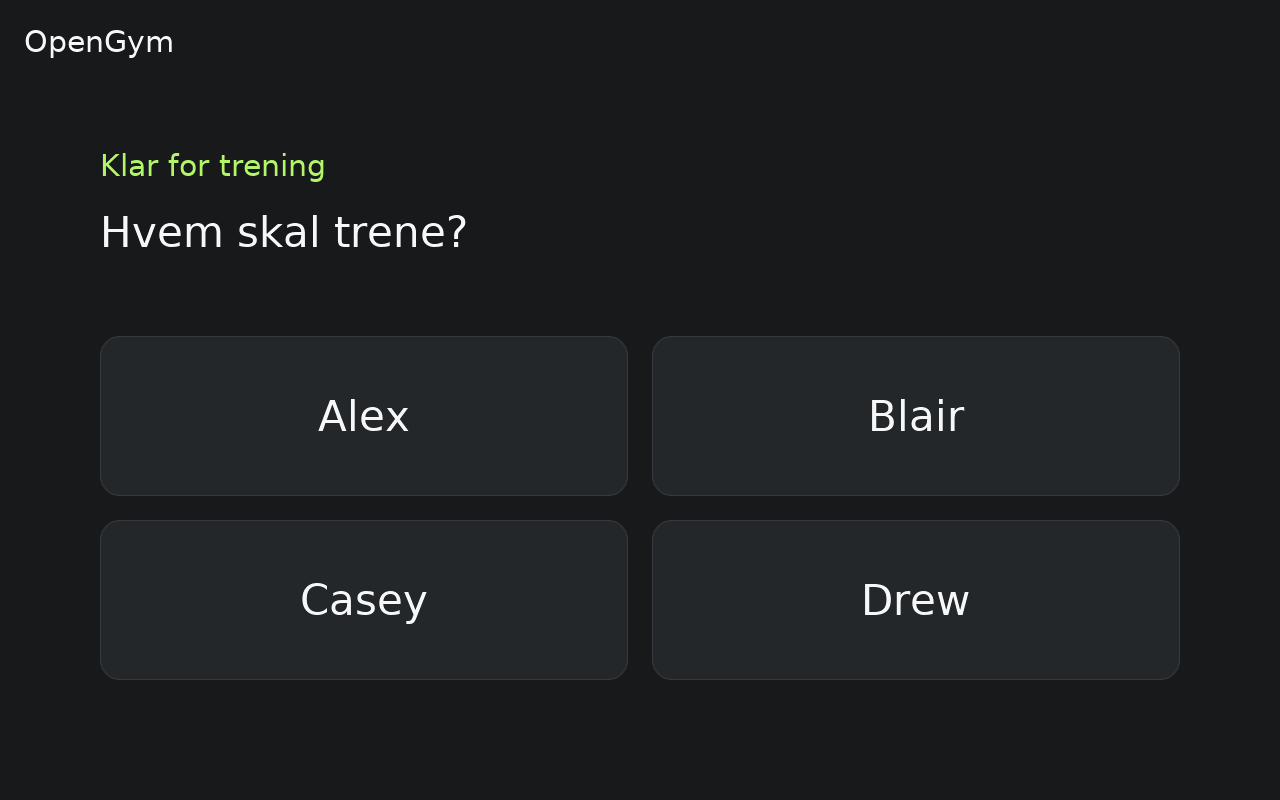
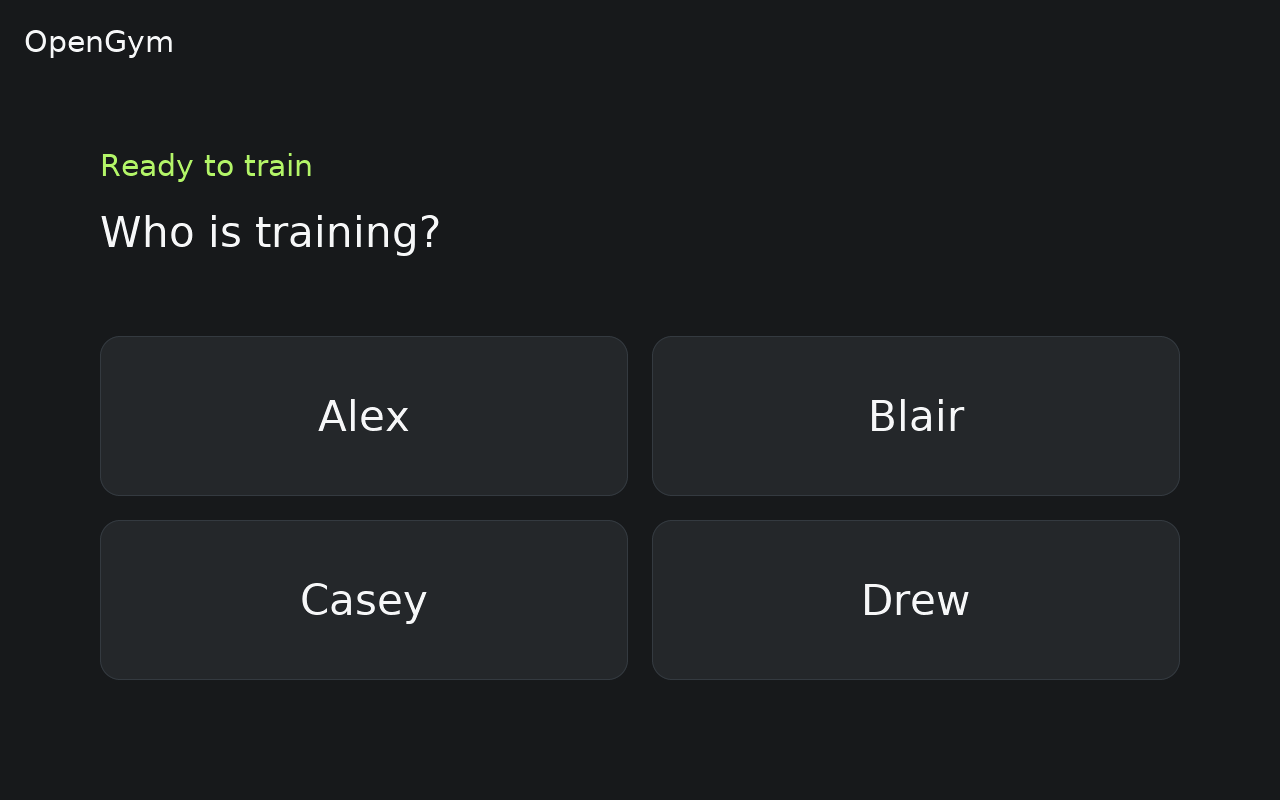
release: default community setup to English and refresh screenshots

Changed region(s): [[0.0625, 0.25, 0.375, 0.3125], [0.0625, 0.1875, 0.25, 0.2188]]

diff --git a/tests/native/test_public_install.py b/tests/native/test_public_install.py
@@ -63,23 +63,23 @@ class PublicInstallTests(unittest.TestCase):
                 setup.prepare(args)
             self.assertEqual(source.read_bytes(), before)
 
-    def test_english_setup_keeps_firmware_and_companion_language_in_step(self):
-        with tempfile.TemporaryDirectory() as directory:
-            args = self.arguments(directory)
-            args.language = 'en'
-            out = setup.prepare(args)
-            compose = json.loads((out / 'compose.yaml').read_text())
-            installation = json.loads((out / 'installation.json').read_text())
-            self.assertEqual(compose['services']['sessions']['environment']['PANEL_LANGUAGE'], 'en')
-            self.assertEqual(installation['locale']['language'], 'en')
-            self.assertEqual(installation['locale']['timezone'], args.timezone)
-            from importlib.util import spec_from_file_location, module_from_spec
-            spec = spec_from_file_location('installation_locale', ROOT / 'tools/configure_installation.py')
-            config = module_from_spec(spec)
-            spec.loader.exec_module(config)
-            wrapper, env = config.render(config.validate(installation))
-            self.assertIn('panel_language: "en"', wrapper)
-            self.assertIn('PANEL_LANGUAGE="en"', env)
+    def test_default_english_and_explicit_norwegian_match_firmware_and_companion(self):
+        for selected, expected in [(None, 'en'), ('nb', 'nb')]:
+            with self.subTest(language=selected), tempfile.TemporaryDirectory() as directory:
+                args = self.arguments(directory)
+                self.assertEqual(args.language, 'en')
+                if selected:
+                    args.language = selected
+                out = setup.prepare(args)
+                compose = json.loads((out / 'compose.yaml').read_text())
+                installation = json.loads((out / 'installation.json').read_text())
+                self.assertEqual(compose['services']['sessions']['environment']['PANEL_LANGUAGE'], expected)
+                self.assertEqual(installation['locale']['language'], expected)
+                self.assertEqual(installation['locale']['timezone'], args.timezone)
+                config = module('installation_locale', 'tools/configure_installation.py')
+                wrapper, env = config.render(config.validate(installation))
+                self.assertIn('panel_language: "' + expected + '"', wrapper)
+                self.assertIn('PANEL_LANGUAGE="' + expected + '"', env)
 
     def test_duplicate_profiles_and_missing_state_fail_before_output(self):
         with tempfile.TemporaryDirectory() as directory:

diff --git a/tools/build_firmware.py b/tools/build_firmware.py
@@ -27,14 +27,14 @@ if __name__ == "__main__":
     parser.add_argument("--synthetic", action="store_true", help="Build isolated, non-installable CI firmware")
     parser.add_argument("--config-only", action="store_true")
     parser.add_argument("--entry", default="firmware/opengym-v3.yaml")
-    parser.add_argument("--language", choices=['nb', 'en'], default='nb',
+    parser.add_argument("--language", choices=['nb', 'en'], default=None,
                         help="Language for the isolated synthetic build; real builds use their installation config")
     args = parser.parse_args()
     version = subprocess.check_output(["esphome", "version"], text=True).strip()
     if version != "Version: 2026.10.0":
         raise SystemExit("Use ESPHome 2026.10.0 from requirements-firmware.txt")
     if not args.synthetic:
-        if args.language != 'nb':
+        if args.language is not None:
             raise SystemExit("Real builds use locale.language in the installation wrapper, not --language")
         entry = (ROOT / args.entry).resolve(strict=True)
         if not entry.is_relative_to(ROOT / "firmware"):
@@ -45,6 +45,8 @@ if __name__ == "__main__":
         raise SystemExit(0)
     if args.entry != "firmware/opengym-v3.yaml":
         raise SystemExit("Synthetic CI uses only the generic supported V3 entry")
+    if args.language is None:
+        args.language = json.loads((ROOT / 'firmware/config/installation.defaults.json').read_text())['substitutions']['panel_language']
     with tempfile.TemporaryDirectory(prefix="opengym-public-compile-") as temporary:
         scratch = Path(temporary)
         shutil.copytree(ROOT / "firmware", scratch / "firmware",

diff --git a/tests/native/test_installation.py b/tests/native/test_installation.py
@@ -20,7 +20,10 @@ class InstallationTests(unittest.TestCase):
 
     def test_installed_compatibility_keeps_all_defaults_and_existing_service_credentials(self):
         c = m.validate(self.compat)
-        self.assertEqual(c['substitutions'], m.DEFAULTS)
+        expected = {**m.DEFAULTS,
+                    'panel_language': self.compat['locale']['language'],
+                    'panel_friendly_name': self.compat['device']['friendly_name']}
+        self.assertEqual(c['substitutions'], expected)
         self.assertEqual(c['network_mode'], 'static')
         text, env = m.render(c)
         self.assertIn('manual_ip:', text)
@@ -48,6 +51,16 @@ class InstallationTests(unittest.TestCase):
         self.assertIn('panel_language: "en"', text)
         self.assertIn('PANEL_LANGUAGE="en"', env)
         self.assertEqual(config['substitutions']['panel_timezone'], m.DEFAULTS['panel_timezone'])
+
+    def test_omitted_locale_uses_edition_default_and_explicit_languages_survive(self):
+        config = m.validate({'schema': 1})
+        self.assertEqual(config['substitutions']['panel_language'], m.DEFAULTS['panel_language'])
+        for language in ['en', 'nb']:
+            with self.subTest(language=language):
+                explicit = m.validate({'schema': 1, 'locale': {'language': language}})
+                wrapper, env = m.render(explicit)
+                self.assertIn('panel_language: "' + language + '"', wrapper)
+                self.assertIn('PANEL_LANGUAGE="' + language + '"', env)
 
     def test_invalid_configuration_rejected_before_output(self):
         mutations = [lambda c:c.update(schema=True), lambda c:c.update(secret='x'),

diff --git a/tools/setup.py b/tools/setup.py
@@ -158,7 +158,8 @@ def parser():
     result.add_argument("--bind-address", required=True)
     result.add_argument("--output", required=True)
     result.add_argument("--timezone", default="Europe/Oslo")
-    result.add_argument("--language", choices=['nb', 'en'], default='nb')
+    result.add_argument("--language", choices=['nb', 'en'], default='en',
+                        help='Interface language (default: en)')
     result.add_argument("--uid", type=int, default=os.getuid() or 1000)
     result.add_argument("--gid", type=int, default=os.getgid() or 1000)
     return result

diff --git a/README.md b/README.md
@@ -7,7 +7,7 @@ picking up your phone.
 Built for the Guition JC8012P4A1 v3, with an ESP32-P4 and a 1280×800 display.
 This is an independent companion project.
 
-**Status:** Early community release (`1.1.33-community.1`). The training workflow
+**Status:** Early community release (`1.1.33-community.2`). The training workflow
 is in use on one panel; the installer and community firmware still need testing
 on other setups.
 
@@ -22,7 +22,7 @@ on other setups.
 
 </details>
 
-*Desktop renders of the native LVGL interface, using example data.
+*English desktop renders of the native LVGL interface, using example data.
 [Image notes](docs/images/RENDER-NOTICE.md).*
 
 ## Features
@@ -46,7 +46,7 @@ placeholder; see [media setup and rights](docs/MEDIA.md) for your own images.
 | OpenGym | Self-hosted **1.4.4** |
 | Companion host | Linux with Docker Engine and Compose |
 | Firmware | ESPHome **2026.10.0**, ESP-IDF **5.5.5** |
-| Interface languages | Norwegian Bokmål (`nb`) and English (`en`) |
+| Interface languages | English (`en`, default) and Norwegian Bokmål (`nb`) |
 
 The panel and companion host need to be on a trusted local network or VPN.
 Other boards and OpenGym versions haven't been verified. See the
@@ -59,14 +59,14 @@ The [installation guide](docs/INSTALL.md) covers the full setup. In brief:
 
 1. Make a private copy of `config/profiles.example.json` for your OpenGym users.
 2. Generate the companion configuration with `tools/setup.py` on your Linux host.
+   English is the default; use `--language nb` for Norwegian.
    Run `python3 tools/setup.py --help` for the available options.
 3. Start the companion services, configure Wi-Fi and
    [build the firmware](docs/BUILDING.md) for your panel.
 4. Pair each profile from the screen using **Settings → Pair the mobile app**
    in the corresponding OpenGym account.
 
-Norwegian is the default. Add `--language en` during setup for English;
-see [language configuration](docs/LANGUAGES.md) for the matching firmware settings.
+See [language configuration](docs/LANGUAGES.md) for matching firmware settings.
 
 ## How it works
 

diff --git a/docs/LANGUAGES.md b/docs/LANGUAGES.md
@@ -1,8 +1,10 @@
 # Interface languages
 
-The native panel supports Norwegian Bokmål (`nb`) and English (`en`). Norwegian
-is the default. The same choice is used for the touchscreen, its local settings
-page and the session companion's generated workout text.
+The native panel supports English (`en`) and Norwegian Bokmål (`nb`). English
+is the default for new community installations; the private edition keeps
+Norwegian. Existing explicit language settings are never migrated automatically.
+The same choice is used for the touchscreen, its local settings page and the
+session companion's generated workout text.
 
 The language is an installation setting, not a touchscreen toggle. Changing it
 requires rebuilding the panel firmware and updating the session companion's
@@ -10,7 +12,7 @@ environment. It does not change OpenGym's own language setting or your units.
 
 ## New installation
 
-In the community checkout, add `--language en` to the `tools/setup.py` command
+In the community checkout, use the `tools/setup.py` command
 in the [installation guide](https://github.com/andresol/opengym-panel/blob/main/docs/INSTALL.md). Setup writes the chosen language to the
 companion's `PANEL_LANGUAGE` environment and to the generated private
 `installation.json`.
@@ -22,8 +24,9 @@ python3 tools/configure_installation.py \
   --config /srv/opengym-panel/installation.json --name my-gym
 ```
 
-Build `firmware/my-gym.local.yaml` using your private provisioning. Use
-`--language nb`, or omit the option, for Norwegian.
+Build `firmware/my-gym.local.yaml` using your private provisioning. Community
+setup selects English when no language option is supplied. Use `--language nb`
+for Norwegian.
 
 ## Existing installation
 

diff --git a/docs/INSTALL.md b/docs/INSTALL.md
@@ -28,7 +28,6 @@ python3 tools/setup.py \
   --api-url http://host.docker.internal:8888 \
   --panel-url http://192.0.2.10:8893 \
   --bind-address 192.0.2.10 \
-  --language nb \
   --output /srv/opengym-panel \
   --uid 1000 --gid 1000
 ```
@@ -36,8 +35,8 @@ python3 tools/setup.py \
 Run this in your source checkout **on the companion host**; generated build
 contexts point to that checkout. It does not send data or start anything.
 It creates mode-0600 service configs, a fresh ESPHome secrets file, a Compose
-file and an `installation.json` with matching language/timezone settings. Choose
-`--language en` for English, or `nb` (the default) for Norwegian Bokmål.
+file and an `installation.json` with matching language/timezone settings.
+English is the default; choose `--language nb` for Norwegian Bokmål.
 The output directory must not already exist. Running as root assigns the
 new files to the selected non-root UID/GID; without root use your own UID/GID.
 Nothing changes ownership or permissions in OpenGym's data directory.
@@ -72,7 +71,7 @@ values are already unique and match the companions. Copy it privately to
 `firmware/secrets.yaml` in your checkout; it is Git-ignored and excluded from the
 Docker build context. The file also holds your browser-admin password.
 
-The base firmware uses DHCP, Europe/Oslo time and Norwegian. Generate a wrapper
+The base firmware uses DHCP, Europe/Oslo time and English. Generate a wrapper
 from setup's private `installation.json` to use the same language and timezone
 as the companion. For additional device/network choices, use a private copy of
 `config/installation.example.json`:

diff --git a/docs/DEVELOPMENT.md b/docs/DEVELOPMENT.md
@@ -13,7 +13,7 @@ repository. Public contributions are tested here before the maintainer ports
 them to the production source; no blind bidirectional directory mirroring is used.
 
 The numeric base version identifies related source lines, for example production
-`1.1.33` and community `1.1.33-community.1`. Community suffixes describe generic
+`1.1.33` and community `1.1.33-community.2`. Community suffixes describe generic
 installer/documentation revisions. They do not prove that a private device is
 running that source. Existing releases remain immutable snapshots; a new commit
 does not silently replace an older release archive.
@@ -38,7 +38,7 @@ and its matching configuration. Install `Pillow` and `freetype-py` in an isolate
 development environment, then run:
 
 ```sh
-python3 tools/render_readme.py \
+python3 tools/render_readme.py --language en \
   --lvgl-include /path/to/lvgl \
   --lvgl-library /path/to/build/lib/liblvgl.a \
   --lvgl-config /path/to/lv_conf.h

diff --git a/CHANGELOG.md b/CHANGELOG.md
@@ -1,5 +1,12 @@
 # Changelog
 
+## 1.1.33-community.2 — English by default
+
+- New community installations default to English across setup, firmware and companion.
+- README screenshots now show the native English interface with example data.
+- Explicit Norwegian (`--language nb`) and existing installation settings are preserved.
+- No changes to set logging, workout storage or the installed maintainer panel.
+
 
 ## 1.1.33-community.1 — English language support
 

diff --git a/docs/images/RENDER-NOTICE.md b/docs/images/RENDER-NOTICE.md
@@ -1,6 +1,6 @@
 # Native interface documentation renders
 
-`workout.png` and `profiles.png` are 1280×800 offline LVGL desktop renders.
+`workout.png` and `profiles.png` are 1280×800 offline LVGL desktop renders in English.
 The panel's native widget construction/render methods and bundled font are used.
 Profile names, workout values, date and session state are fictional. They are
 not photographs, physical framebuffer captures or hardware-acceptance evidence.
